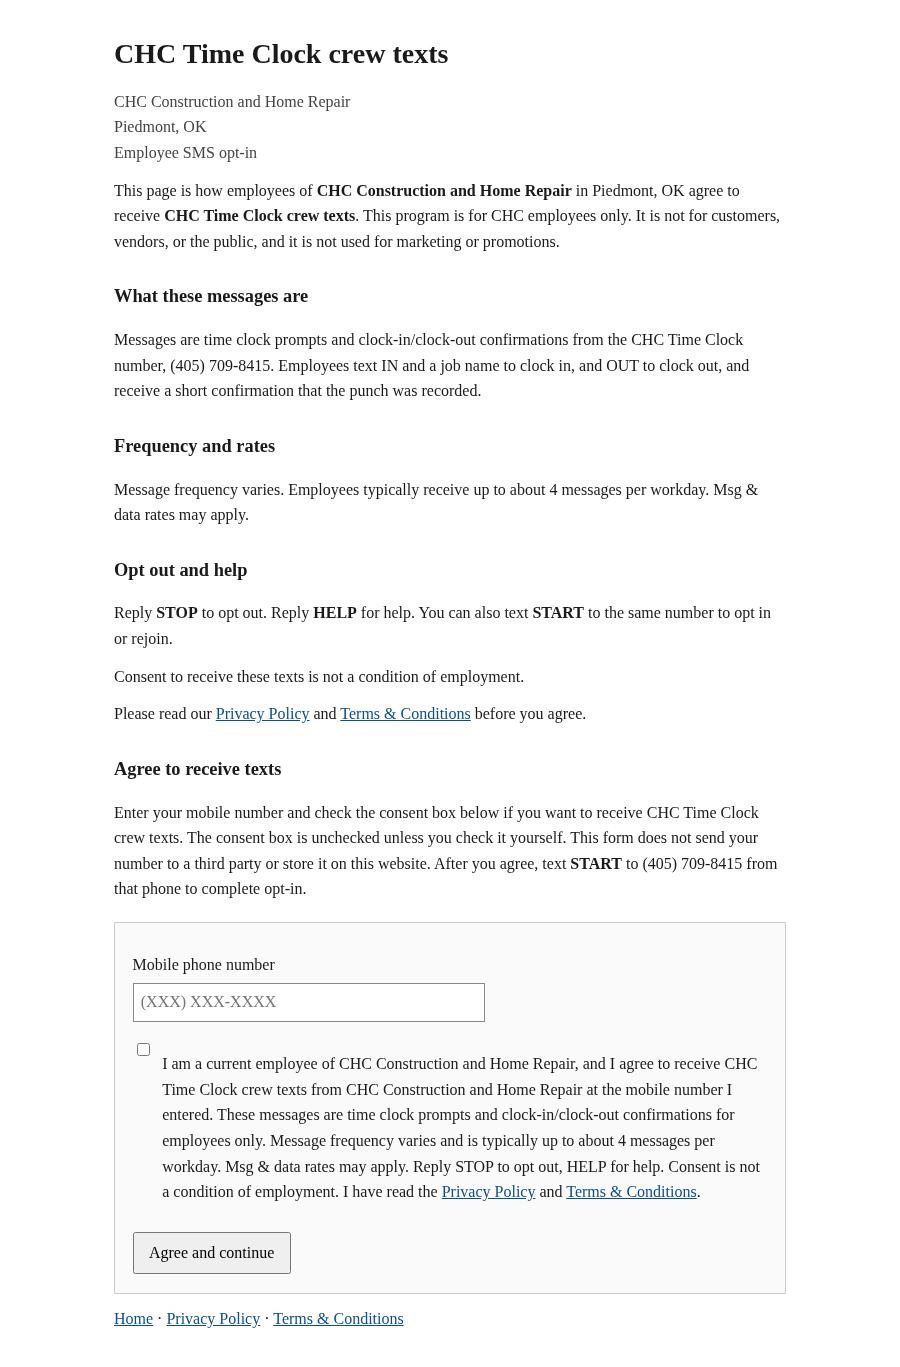
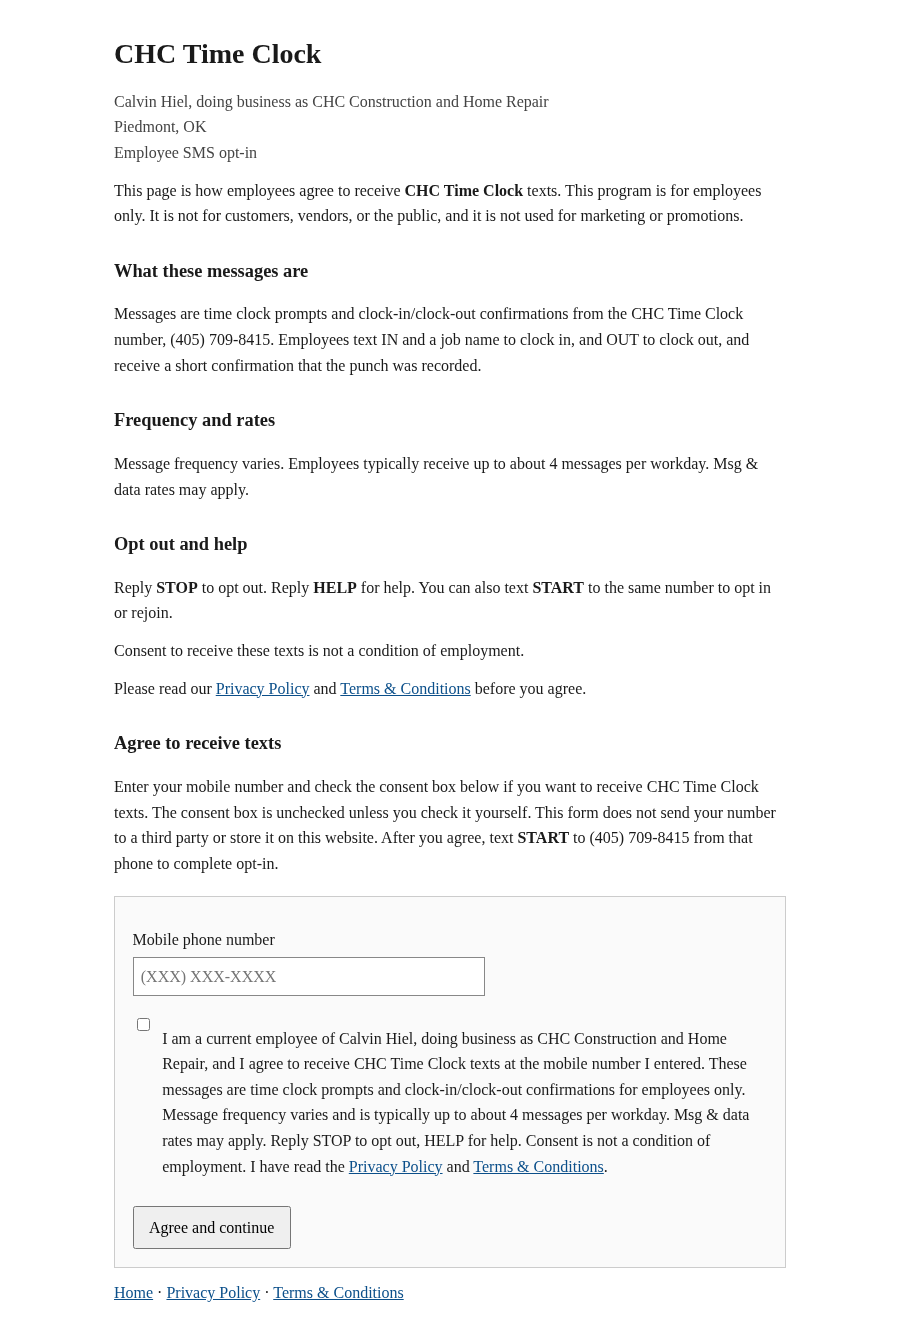
Use one legal name and program name across Time Clock pages.
States the operator as Calvin Hiel, doing business as CHC Construction and Home Repair, then uses CHC Time Clock as the program name. Updates the hosted opt-in screenshot to match.

diff --git a/opt-in.html b/opt-in.html
@@ -3,7 +3,7 @@
 <head>
   <meta charset="utf-8">
   <meta name="viewport" content="width=device-width, initial-scale=1">
-  <title>CHC Time Clock crew texts — SMS opt-in</title>
+  <title>CHC Time Clock — SMS opt-in</title>
   <style>
     body {
       font-family: Georgia, "Times New Roman", serif;
@@ -61,10 +61,10 @@
   </style>
 </head>
 <body>
-  <h1>CHC Time Clock crew texts</h1>
-  <p class="meta">CHC Construction and Home Repair<br>Piedmont, OK<br>Employee SMS opt-in</p>
+  <h1>CHC Time Clock</h1>
+  <p class="meta">Calvin Hiel, doing business as CHC Construction and Home Repair<br>Piedmont, OK<br>Employee SMS opt-in</p>
 
-  <p>This page is how employees of <strong>CHC Construction and Home Repair</strong> in Piedmont, OK agree to receive <strong>CHC Time Clock crew texts</strong>. This program is for CHC employees only. It is not for customers, vendors, or the public, and it is not used for marketing or promotions.</p>
+  <p>This page is how employees agree to receive <strong>CHC Time Clock</strong> texts. This program is for employees only. It is not for customers, vendors, or the public, and it is not used for marketing or promotions.</p>
 
   <h2>What these messages are</h2>
   <p>Messages are time clock prompts and clock-in/clock-out confirmations from the CHC Time Clock number, (405) 709-8415. Employees text IN and a job name to clock in, and OUT to clock out, and receive a short confirmation that the punch was recorded.</p>
@@ -78,7 +78,7 @@
   <p>Please read our <a href="privacy.html">Privacy Policy</a> and <a href="terms.html">Terms &amp; Conditions</a> before you agree.</p>
 
   <h2>Agree to receive texts</h2>
-  <p>Enter your mobile number and check the consent box below if you want to receive CHC Time Clock crew texts. The consent box is unchecked unless you check it yourself. This form does not send your number to a third party or store it on this website. After you agree, text <strong>START</strong> to (405) 709-8415 from that phone to complete opt-in.</p>
+  <p>Enter your mobile number and check the consent box below if you want to receive CHC Time Clock texts. The consent box is unchecked unless you check it yourself. This form does not send your number to a third party or store it on this website. After you agree, text <strong>START</strong> to (405) 709-8415 from that phone to complete opt-in.</p>
 
   <form id="opt-in-form">
     <label for="mobile">Mobile phone number</label>
@@ -86,7 +86,7 @@
 
     <div class="consent">
       <input type="checkbox" id="consent" required>
-      <label for="consent"><span>I am a current employee of CHC Construction and Home Repair, and I agree to receive CHC Time Clock crew texts from CHC Construction and Home Repair at the mobile number I entered. These messages are time clock prompts and clock-in/clock-out confirmations for employees only. Message frequency varies and is typically up to about 4 messages per workday. Msg &amp; data rates may apply. Reply STOP to opt out, HELP for help. Consent is not a condition of employment. I have read the <a href="privacy.html">Privacy Policy</a> and <a href="terms.html">Terms &amp; Conditions</a>.</span></label>
+      <label for="consent"><span>I am a current employee of Calvin Hiel, doing business as CHC Construction and Home Repair, and I agree to receive CHC Time Clock texts at the mobile number I entered. These messages are time clock prompts and clock-in/clock-out confirmations for employees only. Message frequency varies and is typically up to about 4 messages per workday. Msg &amp; data rates may apply. Reply STOP to opt out, HELP for help. Consent is not a condition of employment. I have read the <a href="privacy.html">Privacy Policy</a> and <a href="terms.html">Terms &amp; Conditions</a>.</span></label>
     </div>
 
     <button type="submit">Agree and continue</button>

diff --git a/privacy.html b/privacy.html
@@ -3,7 +3,7 @@
 <head>
   <meta charset="utf-8">
   <meta name="viewport" content="width=device-width, initial-scale=1">
-  <title>Privacy Policy</title>
+  <title>Privacy Policy — CHC Time Clock</title>
   <style>
     body {
       font-family: Georgia, "Times New Roman", serif;
@@ -23,12 +23,12 @@
 </head>
 <body>
   <h1>Privacy Policy</h1>
-  <p class="meta">Calvin Hiel - CHC Time Clock<br>Effective Nov 20, 2026</p>
+  <p class="meta">CHC Time Clock<br>Effective Nov 20, 2026</p>
 
-  <p>This Privacy Policy describes how <strong>Calvin Hiel - CHC Time Clock</strong> collects and uses information. Calvin Hiel - CHC Time Clock is operated by Calvin Hiel, a sole proprietor doing business as CHC Construction and Home Repair in Piedmont, OK.</p>
+  <p>This Privacy Policy describes how the <strong>CHC Time Clock</strong> SMS program collects and uses information. CHC Time Clock is operated by Calvin Hiel, doing business as CHC Construction and Home Repair in Piedmont, OK.</p>
 
   <h2>The service</h2>
-  <p>Calvin Hiel - CHC Time Clock is an internal employee SMS time clock at (405) 709-8415. It is used only by employees of CHC Construction and Home Repair to clock in and out of work.</p>
+  <p>CHC Time Clock is an internal employee SMS time clock at (405) 709-8415. It is used only by employees to clock in and out of work.</p>
 
   <h2>Information we collect</h2>
   <p>When you text the time clock number, we collect your phone number, the content of your messages (such as IN/OUT and a job name), and timestamps. We collect this information solely to log employee hours.</p>

diff --git a/terms.html b/terms.html
@@ -3,7 +3,7 @@
 <head>
   <meta charset="utf-8">
   <meta name="viewport" content="width=device-width, initial-scale=1">
-  <title>Terms &amp; Conditions</title>
+  <title>Terms &amp; Conditions — CHC Time Clock</title>
   <style>
     body {
       font-family: Georgia, "Times New Roman", serif;
@@ -23,12 +23,12 @@
 </head>
 <body>
   <h1>Terms &amp; Conditions</h1>
-  <p class="meta">Calvin Hiel - CHC Time Clock<br>Effective Nov 20, 2026</p>
+  <p class="meta">CHC Time Clock<br>Effective Nov 20, 2026</p>
 
-  <p>These Terms &amp; Conditions apply to the <strong>Calvin Hiel - CHC Time Clock</strong> SMS program operated by Calvin Hiel.</p>
+  <p>These Terms &amp; Conditions apply to the <strong>CHC Time Clock</strong> SMS program operated by Calvin Hiel, doing business as CHC Construction and Home Repair.</p>
 
   <h2>SMS Terms</h2>
-  <p>Calvin Hiel - CHC Time Clock is an internal employee time clock. Employees text IN &lt;job&gt; to clock in and OUT to clock out, and receive confirmation replies, by texting (405) 709-8415.</p>
+  <p>CHC Time Clock is an internal employee time clock. Employees text IN &lt;job&gt; to clock in and OUT to clock out, and receive confirmation replies, by texting (405) 709-8415.</p>
   <p>Message frequency varies, typically up to about 4 messages per workday.</p>
   <p>Message and data rates may apply.</p>
   <p>Text HELP for help. Text STOP to opt out. Text START to rejoin.</p>

diff --git a/index.html b/index.html
@@ -3,7 +3,7 @@
 <head>
   <meta charset="utf-8">
   <meta name="viewport" content="width=device-width, initial-scale=1">
-  <title>Calvin Hiel - CHC Time Clock</title>
+  <title>CHC Time Clock</title>
   <style>
     body {
       font-family: Georgia, "Times New Roman", serif;
@@ -21,8 +21,8 @@
   </style>
 </head>
 <body>
-  <h1>Calvin Hiel - CHC Time Clock</h1>
-  <p>Public policies and employee opt-in for the CHC Time Clock SMS program, operated by CHC Construction and Home Repair in Piedmont, OK.</p>
+  <h1>CHC Time Clock</h1>
+  <p>Public policies and employee opt-in for the CHC Time Clock SMS program, operated by Calvin Hiel, doing business as CHC Construction and Home Repair in Piedmont, OK.</p>
   <ul>
     <li><a href="opt-in.html">Crew SMS Opt-In</a></li>
     <li><a href="privacy.html">Privacy Policy</a></li>
